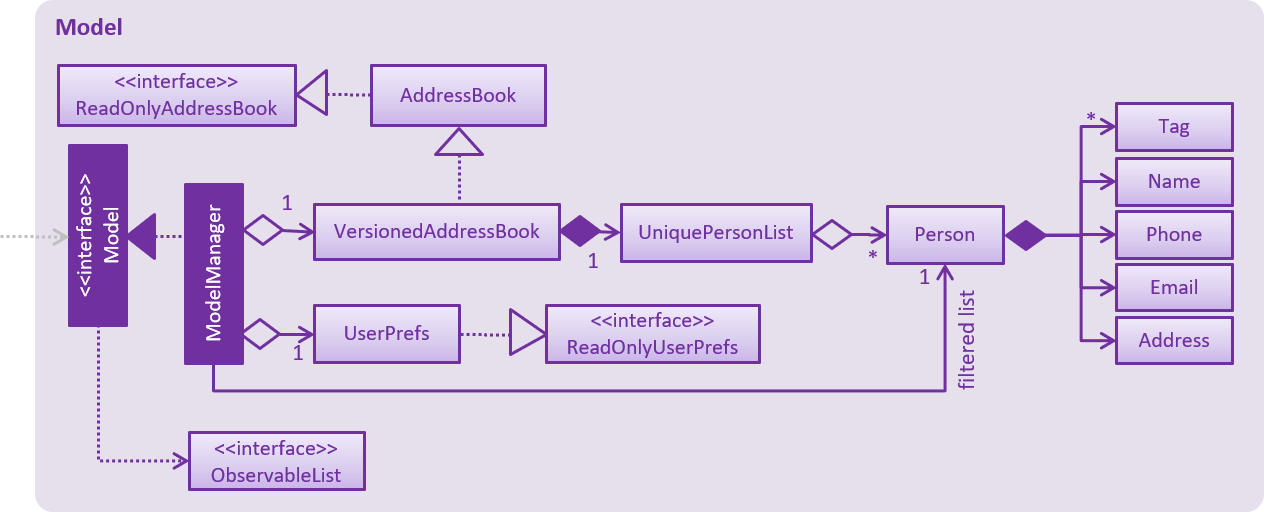
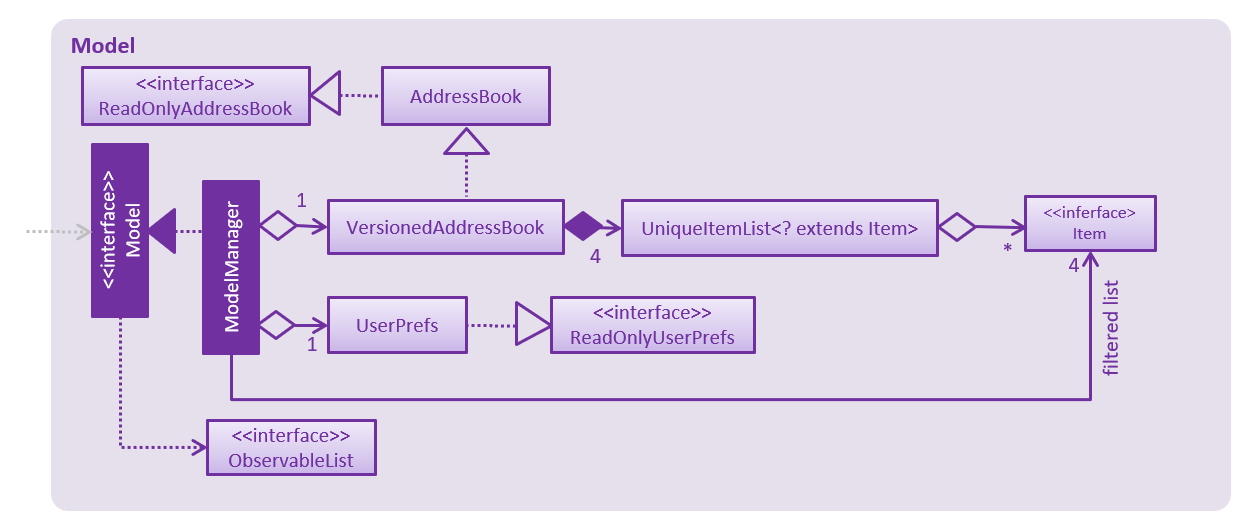
Rebuild pages at d9fca0b826aee779f284484da5d0fccfd180b4ba

Changed region(s): [[0.0, 0.0, 1.0, 1.0]]

diff --git a/DeveloperGuide.html b/DeveloperGuide.html
@@ -1,9 +1,9 @@
-<!DOCTYPE html><html lang="en"><head><meta charset="UTF-8"><!--[if IE]><meta http-equiv="X-UA-Compatible" content="IE=edge"><![endif]--><meta name="viewport" content="width=device-width, initial-scale=1.0"><meta name="generator" content="Asciidoctor 1.5.6.1"><title>AddressBook Level 4 - Developer Guide</title><link rel="stylesheet" href="stylesheets/gh-pages.css">
+<!DOCTYPE html><html lang="en"><head><meta charset="UTF-8"><!--[if IE]><meta http-equiv="X-UA-Compatible" content="IE=edge"><![endif]--><meta name="viewport" content="width=device-width, initial-scale=1.0"><meta name="generator" content="Asciidoctor 1.5.6.1"><title>REstaurant Manager - Developer Guide</title><link rel="stylesheet" href="stylesheets/gh-pages.css">
 <link rel="stylesheet" href="https://cdnjs.cloudflare.com/ajax/libs/font-awesome/4.5.0/css/font-awesome.min.css">
-<link rel="stylesheet" href="stylesheets/coderay-asciidoctor.css"></head><body class="article"><div id="site-header"><nav class="navbar navbar-light bg-light"><div class="container"><a class="navbar-brand" href="index.html">REstaurant Manager</a><ul class="navbar-nav"><li class="nav-item"><a class="nav-link" href="UserGuide.html">User Guide</a></li><li class="nav-item"><a class="nav-link active" href="DeveloperGuide.html">Developer Guide</a></li><li class="nav-item"><a class="nav-link" href="AboutUs.html">About Us</a></li><li class="nav-item"><a class="nav-link" href="ContactUs.html">Contact Us</a></li><li class="navitem"><a class="nav-link" href="https://github.com/cs2103-ay1819S2-w11-2/main"><span class="fa fa-github fa-lg" aria-hidden="true"></span>&nbsp;View on GitHub</a></li></ul></div></nav></div><div id="header"><h1>AddressBook Level 4 - Developer Guide</h1></div><div id="content"><div id="preamble">
+<link rel="stylesheet" href="stylesheets/coderay-asciidoctor.css"></head><body class="article"><div id="site-header"><nav class="navbar navbar-light bg-light"><div class="container"><a class="navbar-brand" href="index.html">REstaurant Manager</a><ul class="navbar-nav"><li class="nav-item"><a class="nav-link" href="UserGuide.html">User Guide</a></li><li class="nav-item"><a class="nav-link active" href="DeveloperGuide.html">Developer Guide</a></li><li class="nav-item"><a class="nav-link" href="AboutUs.html">About Us</a></li><li class="nav-item"><a class="nav-link" href="ContactUs.html">Contact Us</a></li><li class="navitem"><a class="nav-link" href="https://github.com/cs2103-ay1819S2-w11-2/main"><span class="fa fa-github fa-lg" aria-hidden="true"></span>&nbsp;View on GitHub</a></li></ul></div></nav></div><div id="header"><h1>REstaurant Manager - Developer Guide</h1></div><div id="content"><div id="preamble">
 <div class="sectionbody">
 <div class="paragraph">
-<p>By: <code>Team SE-EDU</code>      Since: <code>Jun 2016</code>      Licence: <code>MIT</code></p>
+<p>By: <code>Team W11-2</code>      Since: <code>Jan 2019</code>      Licence: <code>MIT</code></p>
 </div>
 </div>
 <div id="toc" class="toc">
@@ -30,9 +30,11 @@
 <li><a href="#implementation">3. Implementation</a>
 <ul class="sectlevel2">
 <li><a href="#undo-redo-feature">3.1. Undo/Redo feature</a></li>
-<li><a href="#proposed-data-encryption">3.2. [Proposed] Data Encryption</a></li>
-<li><a href="#logging">3.3. Logging</a></li>
-<li><a href="#Implementation-Configuration">3.4. Configuration</a></li>
+<li><a href="#data-structure-for-holding-records">3.2. Data structure for holding records</a></li>
+<li><a href="#the-code-editmember-code-command">3.3. The <code>editMember</code> command</a></li>
+<li><a href="#proposed-data-encryption">3.4. [Proposed] Data Encryption</a></li>
+<li><a href="#logging">3.5. Logging</a></li>
+<li><a href="#Implementation-Configuration">3.6. Configuration</a></li>
 </ul>
 </li>
 <li><a href="#documentation">4. Documentation</a>
@@ -490,6 +492,12 @@ The following class plays an important role at the architecture level:</p>
 </div>
 <div class="title">Figure 7. Structure of the Model Component</div>
 </div>
+<div class="imageblock">
+<div class="content">
+<img src="images/ModelItemDiagram.png" alt="ModelItemDiagram" width="800">
+</div>
+<div class="title">Figure 8. Structure of the Item Interface (split into a separate diagarm for clarity)</div>
+</div>
 <div class="paragraph">
 <p><strong>API</strong> : <a href="https://github.com/cs2103-ay1819S2-w11-2/main/src/main/java/seedu/address/model/Model.java"><code>Model.java</code></a></p>
 </div>
@@ -502,29 +510,15 @@ The following class plays an important role at the architecture level:</p>
 <p>stores a <code>UserPref</code> object that represents the user&#8217;s preferences.</p>
 </li>
 <li>
-<p>stores the Address Book data.</p>
+<p>stores the Restaurant Book data.</p>
 </li>
 <li>
-<p>exposes an unmodifiable <code>ObservableList&lt;Person&gt;</code> that can be 'observed' e.g. the UI can be bound to this list so that the UI automatically updates when the data in the list change.</p>
+<p>exposes an unmodifiable <code>ObservableList&lt;Item&gt;</code> that can be 'observed' e.g. the UI can be bound to this list so that the UI automatically updates when the data in the list change.</p>
 </li>
 <li>
 <p>does not depend on any of the other three components.</p>
 </li>
 </ul>
-</div>
-<div class="admonitionblock note">
-<table>
-<tr>
-<td class="icon">
-<i class="fa icon-note" title="Note"></i>
-</td>
-<td class="content">
-As a more OOP model, we can store a <code>Tag</code> list in <code>Address Book</code>, which <code>Person</code> can reference. This would allow <code>Address Book</code> to only require one <code>Tag</code> object per unique <code>Tag</code>, instead of each <code>Person</code> needing their own <code>Tag</code> object. An example of how such a model may look like is given below.<br>
-<br>
-<span class="image"><img src="images/ModelClassBetterOopDiagram.png" alt="ModelClassBetterOopDiagram" width="800"></span>
-</td>
-</tr>
-</table>
 </div>
 </div>
 <div class="sect2">
@@ -533,7 +527,7 @@ As a more OOP model, we can store a <code>Tag</code> list in <code>Address Book<
 <div class="content">
 <img src="images/StorageClassDiagram.png" alt="StorageClassDiagram" width="800">
 </div>
-<div class="title">Figure 8. Structure of the Storage Component</div>
+<div class="title">Figure 9. Structure of the Storage Component</div>
 </div>
 <div class="paragraph">
 <p><strong>API</strong> : <a href="https://github.com/cs2103-ay1819S2-w11-2/main/src/main/java/seedu/address/storage/Storage.java"><code>Storage.java</code></a></p>
@@ -769,20 +763,181 @@ If the <code>currentStatePointer</code> is at index <code>addressBookStateList.s
 </div>
 </div>
 <div class="sect2">
-<h3 id="proposed-data-encryption"><a class="link" href="#proposed-data-encryption">3.2. [Proposed] Data Encryption</a></h3>
+<h3 id="data-structure-for-holding-records"><a class="link" href="#data-structure-for-holding-records">3.2. Data structure for holding records</a></h3>
+<div class="paragraph">
+<p>Following the AB4 structure, the <code>RestaurantBook</code> (originally <code>AddressBook</code>) class serves as the main database, holding information of all records in the system. However, the database system required is more complicated than the one in AB4- there are four different kinds of records that need to be stored. The main operations are still largely CRUD (create, read, update, delete) in nature which are very similarly done. However, there are some differences between the types of records:</p>
+</div>
+<div class="ulist">
+<ul>
+<li>
+<p>Some commands such as <code>addBooking</code> needs to keep track of the <code>Capacity</code> of the restaurant- we must not allow the restaurant to be overbooked. There is no equivalent of this in the <code>addMember</code>, <code>addIngredient</code> or <code>addStaff</code> commands.</p>
+</li>
+<li>
+<p>The <code>editMember</code> command requires all <code>Booking</code> associated to the <code>Member</code> to have an updated copy of all the <code>Member</code> details. Again, there is no equivalent of this in the other edit-style commands.</p>
+</li>
+</ul>
+</div>
+<div class="sect3">
+<h4 id="current-implementation-2"><a class="link" href="#current-implementation-2">3.2.1. Current implementation</a></h4>
+<div class="paragraph">
+<p>We created the interface <code>Item</code> to represent a record. A <code>UniqueItemList</code> was used to handle the bulk of the CRUD logic, much like the way the <code>UniquePersonList</code> in the original AB4 was used to handle the CRUD logic. As the <code>Staff</code> and <code>Member</code> class store common attributes (<code>Name</code>, <code>Phone</code>, <code>Email</code>), an abstract class <code>Person</code> was used to capture this. The relation between the types of <code>Item</code> is also captured in the class diagram of Figure 8. However, in the <code>Model</code> interface, the methods are kept separate (using methods like <code>addMember</code>, <code>addBooking</code> instead of having a more generic <code>addItem</code> method).</p>
+</div>
+</div>
+<div class="sect3">
+<h4 id="design-considerations-2"><a class="link" href="#design-considerations-2">3.2.2. Design Considerations</a></h4>
+<div class="sect4">
+<h5 id="aspect-implementation-of-data-structure"><a class="link" href="#aspect-implementation-of-data-structure">Aspect: Implementation of data structure</a></h5>
+<div class="ulist">
+<ul>
+<li>
+<p><strong>Alternative 1 (current choice):</strong> Use the <code>Item</code> interface to capture the similarity between records.</p>
+<div class="ulist">
+<ul>
+<li>
+<p>Pros: Reduces code duplication as we do not need separate classes <code>UniqueMemberList</code>, <code>UniqueBookingList</code>, <code>UniqueIngredientList</code>, <code>UniqueStaffList</code>.</p>
+</li>
+<li>
+<p>Cons: As the operations for different records are not exactly the same, RestaurantBook needs to be aware of the differences between the similar operations.</p>
+</li>
+</ul>
+</div>
+</li>
+<li>
+<p><strong>Alternative 2:</strong> Create four separate classes which do not inherit from any parent class or interface.</p>
+<div class="ulist">
+<ul>
+<li>
+<p>Pros: The precise CRUD operations can be heavily customised for each type of record.</p>
+</li>
+<li>
+<p>Cons: Lots of code duplication.</p>
+</li>
+</ul>
+</div>
+</li>
+<li>
+<p>Decision: Alternative 1 was adopted as the differences between the operations are relatively minor and can be done at the <code>RestaurantBook</code> level without creating too much confusion.</p>
+</li>
+</ul>
+</div>
+</div>
+<div class="sect4">
+<h5 id="aspect-implementation-of-the-model-interface"><a class="link" href="#aspect-implementation-of-the-model-interface">Aspect: Implementation of the model interface</a></h5>
+<div class="ulist">
+<ul>
+<li>
+<p><strong>Alternative 1 (current choice):</strong> Maintain separate methods for the similar-looking CRUD-style methods</p>
+<div class="ulist">
+<ul>
+<li>
+<p>Pros: Easier to implement.</p>
+</li>
+<li>
+<p>Cons: More code duplication, the <code>Model</code> API now contains many methods.</p>
+</li>
+</ul>
+</div>
+</li>
+<li>
+<p><strong>Alternative 2:</strong> Generalize the methods so that there is only one of them for each type of command (e.g. <code>addItem</code> instead of <code>addBooking</code>, <code>addMember</code>) in the Model API.</p>
+<div class="ulist">
+<ul>
+<li>
+<p>Pros: Reduces the overall amount of code needed with less duplication. The <code>Model</code> API looks simpler on the surface with less methods.</p>
+</li>
+<li>
+<p>Cons: Violates Separation of Concerns principle, due to the differences across the similar-looking methods. Since the implementation of various <code>add</code> commands are slightly different (<code>addBooking</code> needs to check the restaurant capacity first), many if-else statements will be required in the control flow of <code>RestaurantBook#addItem</code> method, potentially using <code>instanceof</code> checks. These <code>instanceof</code> checks can potentially violate type safety.</p>
+</li>
+</ul>
+</div>
+</li>
+<li>
+<p>Decision: Alternative 1 was adopted as we value simplicity over the potential problems that might arise with the generic methods.</p>
+</li>
+</ul>
+</div>
+</div>
+</div>
+</div>
+<div class="sect2">
+<h3 id="the-code-editmember-code-command"><a class="link" href="#the-code-editmember-code-command">3.3. The <code>editMember</code> command</a></h3>
+<div class="paragraph">
+<p>When a <code>Member</code> details (<code>Name</code>, <code>Phone</code>, or <code>Email</code>) is changed, the <code>Booking</code> object must reflect the change. This requires an internal modification to the <code>Booking</code> list.</p>
+</div>
+<div class="sect3">
+<h4 id="current-implementation-3"><a class="link" href="#current-implementation-3">3.3.1. Current implementation</a></h4>
+<div class="paragraph">
+<p>When <code>RestaurantBook#setMember()</code> is called, the bookings are replaced with a new set of bookings, in a way such that any <code>Booking</code> containing the modified member will be replaced with another <code>Booking</code> object that correctly reflects the modified customer.</p>
+</div>
+<div class="paragraph">
+<p>(Insert sequence diagram)</p>
+</div>
+</div>
+<div class="sect3">
+<h4 id="design-considerations-3"><a class="link" href="#design-considerations-3">3.3.2. Design Considerations</a></h4>
+<div class="ulist">
+<ul>
+<li>
+<p><strong>Alternative 1 (current choice):</strong> Manually perform a corresponding change to the <code>Booking</code> list whenever the personal details of a member changes.</p>
+<div class="ulist">
+<ul>
+<li>
+<p>Pros: Easier to implement as it does not require much change to the already-existing AB4 codebase.</p>
+</li>
+<li>
+<p>Cons: Poor efficiency. This involves scanning through the entire list of bookings just to change the personal details of a single <code>Member</code>. Also, if some other command changes a <code>Member</code> details without going through the <code>RestaurantBook#setMember()</code> method, the update will not be reflected.</p>
+</li>
+</ul>
+</div>
+</li>
+<li>
+<p><strong>Alternative 2:</strong> Make the <code>Member</code> class mutable. Whenever the <code>Member</code> details changes, the <code>Booking</code> will automatically extract the correct details of the <code>Member</code> and nothing needs to be done.</p>
+<div class="ulist">
+<ul>
+<li>
+<p>Pros: This eases the load on the <code>RestaurantBook</code> class and does not require special treatment. It is also more efficient as no additional work is done.</p>
+</li>
+<li>
+<p>Cons: The current <code>undo</code> and <code>redo</code> commands rely on the immutabilty of the <code>Member</code> class to work correctly. Doing so may require a huge change in implementation of <code>undo</code> and <code>redo</code> commands. Also, allowing mutable variables can potentially be a source of other bugs.</p>
+</li>
+</ul>
+</div>
+</li>
+<li>
+<p><strong>Alternative 3:</strong> Assign each <code>Member</code> an ID and store the mapping from ID to <code>Member</code>. Instead of storing the full details of the <code>Member</code>, the <code>Booking</code> object simply stores the <code>ID</code> of the member that made the booking. When an update occurs, we simply need to update the ID to <code>Member</code> map.</p>
+<div class="ulist">
+<ul>
+<li>
+<p>Pros: Provides both lookup efficiency as well as immutability of the <code>Member</code> objects.</p>
+</li>
+<li>
+<p>Cons: Uses additional data structure to store the mappings, potentially making the code more difficult to maintain.</p>
+</li>
+</ul>
+</div>
+</li>
+<li>
+<p>Decision: Alternative 1 was adopted as we felt that it was the simplest way to implement the feature. The additional efficiency gained may not even be significant, considering that in simple GUI apps like this, updating the UI is often the part of the program that uses the most resources. Optimizing the backend operations may not actually lead to a significant performance improvement.</p>
+</li>
+</ul>
+</div>
+</div>
+</div>
+<div class="sect2">
+<h3 id="proposed-data-encryption"><a class="link" href="#proposed-data-encryption">3.4. [Proposed] Data Encryption</a></h3>
 <div class="paragraph">
 <p><em>{Explain here how the data encryption feature will be implemented}</em></p>
 </div>
 </div>
 <div class="sect2">
-<h3 id="logging"><a class="link" href="#logging">3.3. Logging</a></h3>
+<h3 id="logging"><a class="link" href="#logging">3.5. Logging</a></h3>
 <div class="paragraph">
 <p>We are using <code>java.util.logging</code> package for logging. The <code>LogsCenter</code> class is used to manage the logging levels and logging destinations.</p>
 </div>
 <div class="ulist">
 <ul>
 <li>
-<p>The logging level can be controlled using the <code>logLevel</code> setting in the configuration file (See <a href="#Implementation-Configuration">Section 3.4, &#8220;Configuration&#8221;</a>)</p>
+<p>The logging level can be controlled using the <code>logLevel</code> setting in the configuration file (See <a href="#Implementation-Configuration">Section 3.6, &#8220;Configuration&#8221;</a>)</p>
 </li>
 <li>
 <p>The <code>Logger</code> for a class can be obtained using <code>LogsCenter.getLogger(Class)</code> which will log messages according to the specified logging level</p>
@@ -813,7 +968,7 @@ If the <code>currentStatePointer</code> is at index <code>addressBookStateList.s
 </div>
 </div>
 <div class="sect2">
-<h3 id="Implementation-Configuration"><a class="link" href="#Implementation-Configuration">3.4. Configuration</a></h3>
+<h3 id="Implementation-Configuration"><a class="link" href="#Implementation-Configuration">3.6. Configuration</a></h3>
 <div class="paragraph">
 <p>Certain properties of the application can be controlled (e.g user prefs file location, logging level) through the configuration file (default: <code>config.json</code>).</p>
 </div>
@@ -879,7 +1034,7 @@ Alternatively, you can download the AsciiDoc plugin for IntelliJ, which allows y
 <div class="content">
 <img src="images/chrome_save_as_pdf.png" alt="chrome save as pdf" width="300">
 </div>
-<div class="title">Figure 9. Saving documentation as PDF files in Chrome</div>
+<div class="title">Figure 10. Saving documentation as PDF files in Chrome</div>
 </div>
 </div>
 <div class="sect2">
@@ -2620,4 +2775,4 @@ Expected: Similar to previous.</p>
 </div>
 </div>
 </div>
-</div></div><div id="footer"><div class="container"><div id="footer-text">Last updated 2019-03-17 03:55:49 UTC</div></div></div></body></html>
+</div></div><div id="footer"><div class="container"><div id="footer-text">Last updated 2019-03-17 04:04:18 UTC</div></div></div></body></html>

diff --git a/team/johndoe.html b/team/johndoe.html
@@ -369,4 +369,4 @@ If the <code>currentStatePointer</code> is at index <code>addressBookStateList.s
 <p><em>{Optionally, you may include other projects in your portfolio.}</em></p>
 </div>
 </div>
-</div></div><div id="footer"><div class="container"><div id="footer-text">Last updated 2019-03-17 03:55:49 UTC</div></div></div></body></html>
+</div></div><div id="footer"><div class="container"><div id="footer-text">Last updated 2019-03-17 04:04:18 UTC</div></div></div></body></html>

diff --git a/ContactUs.html b/ContactUs.html
@@ -12,4 +12,4 @@
 <p><strong>Email us</strong> : You can also reach us at <code>e0174827 [at] u.nus.edu</code></p>
 </li>
 </ul>
-</div></div><div id="footer"><div class="container"><div id="footer-text">Last updated 2019-03-17 03:55:49 UTC</div></div></div></body></html>
+</div></div><div id="footer"><div class="container"><div id="footer-text">Last updated 2019-03-17 04:04:18 UTC</div></div></div></body></html>

diff --git a/UsingGradle.html b/UsingGradle.html
@@ -255,4 +255,4 @@ See <code>build.gradle</code> &#8594; <code>allprojects</code> &#8594; <code>dep
 </ul>
 </div>
 </div>
-</div></div><div id="footer"><div class="container"><div id="footer-text">Last updated 2019-03-17 03:55:49 UTC</div></div></div></body></html>
+</div></div><div id="footer"><div class="container"><div id="footer-text">Last updated 2019-03-17 04:04:18 UTC</div></div></div></body></html>

diff --git a/UsingNetlify.html b/UsingNetlify.html
@@ -123,4 +123,4 @@ The publish directory is the directory in which the built HTML documentation res
 </ol>
 </div>
 </div>
-</div></div><div id="footer"><div class="container"><div id="footer-text">Last updated 2019-03-17 03:55:49 UTC</div></div></div></body></html>
+</div></div><div id="footer"><div class="container"><div id="footer-text">Last updated 2019-03-17 04:04:18 UTC</div></div></div></body></html>

diff --git a/UsingCoveralls.html b/UsingCoveralls.html
@@ -96,4 +96,4 @@ If you have not set up Travis CI, see <a href="UsingTravis.html">UsingTravis.ado
 </ol>
 </div>
 </div>
-</div></div><div id="footer"><div class="container"><div id="footer-text">Last updated 2019-03-17 03:55:49 UTC</div></div></div></body></html>
+</div></div><div id="footer"><div class="container"><div id="footer-text">Last updated 2019-03-17 04:04:18 UTC</div></div></div></body></html>

diff --git a/UsingTravis.html b/UsingTravis.html
@@ -277,4 +277,4 @@ Suggested change: Remove the codacy badge from <code>README</code>.</p>
 </div>
 </div>
 </div>
-</div></div><div id="footer"><div class="container"><div id="footer-text">Last updated 2019-03-17 03:55:49 UTC</div></div></div></body></html>
+</div></div><div id="footer"><div class="container"><div id="footer-text">Last updated 2019-03-17 04:04:18 UTC</div></div></div></body></html>

diff --git a/UsingCheckstyle.html b/UsingCheckstyle.html
@@ -91,4 +91,4 @@ Restart the IDE to complete the installation.</p>
 </ul>
 </div>
 </div>
-</div></div><div id="footer"><div class="container"><div id="footer-text">Last updated 2019-03-17 03:55:49 UTC</div></div></div></body></html>
+</div></div><div id="footer"><div class="container"><div id="footer-text">Last updated 2019-03-17 04:04:18 UTC</div></div></div></body></html>

diff --git a/AboutUs.html b/AboutUs.html
@@ -81,4 +81,4 @@ Working on: ingredient management feature</p>
 <hr>
 </div>
 </div>
-</div></div><div id="footer"><div class="container"><div id="footer-text">Last updated 2019-03-17 03:55:49 UTC</div></div></div></body></html>
+</div></div><div id="footer"><div class="container"><div id="footer-text">Last updated 2019-03-17 04:04:18 UTC</div></div></div></body></html>

diff --git a/HelpWindow.html b/HelpWindow.html
@@ -1272,4 +1272,4 @@ e.g. <code>addRating 5</code></p>
 </div>
 </div>
 </div>
-</div></div><div id="footer"><div class="container"><div id="footer-text">Last updated 2019-03-17 03:55:49 UTC</div></div></div></body></html>
+</div></div><div id="footer"><div class="container"><div id="footer-text">Last updated 2019-03-17 04:04:18 UTC</div></div></div></body></html>

diff --git a/UserGuide.html b/UserGuide.html
@@ -1272,4 +1272,4 @@ e.g. <code>addRating 5</code></p>
 </div>
 </div>
 </div>
-</div></div><div id="footer"><div class="container"><div id="footer-text">Last updated 2019-03-17 03:55:49 UTC</div></div></div></body></html>
+</div></div><div id="footer"><div class="container"><div id="footer-text">Last updated 2019-03-17 04:04:18 UTC</div></div></div></body></html>

diff --git a/UsingAppVeyor.html b/UsingAppVeyor.html
@@ -145,4 +145,4 @@ grant access:</p>
 </ol>
 </div>
 </div>
-</div></div><div id="footer"><div class="container"><div id="footer-text">Last updated 2019-03-17 03:55:49 UTC</div></div></div></body></html>
+</div></div><div id="footer"><div class="container"><div id="footer-text">Last updated 2019-03-17 04:04:18 UTC</div></div></div></body></html>
